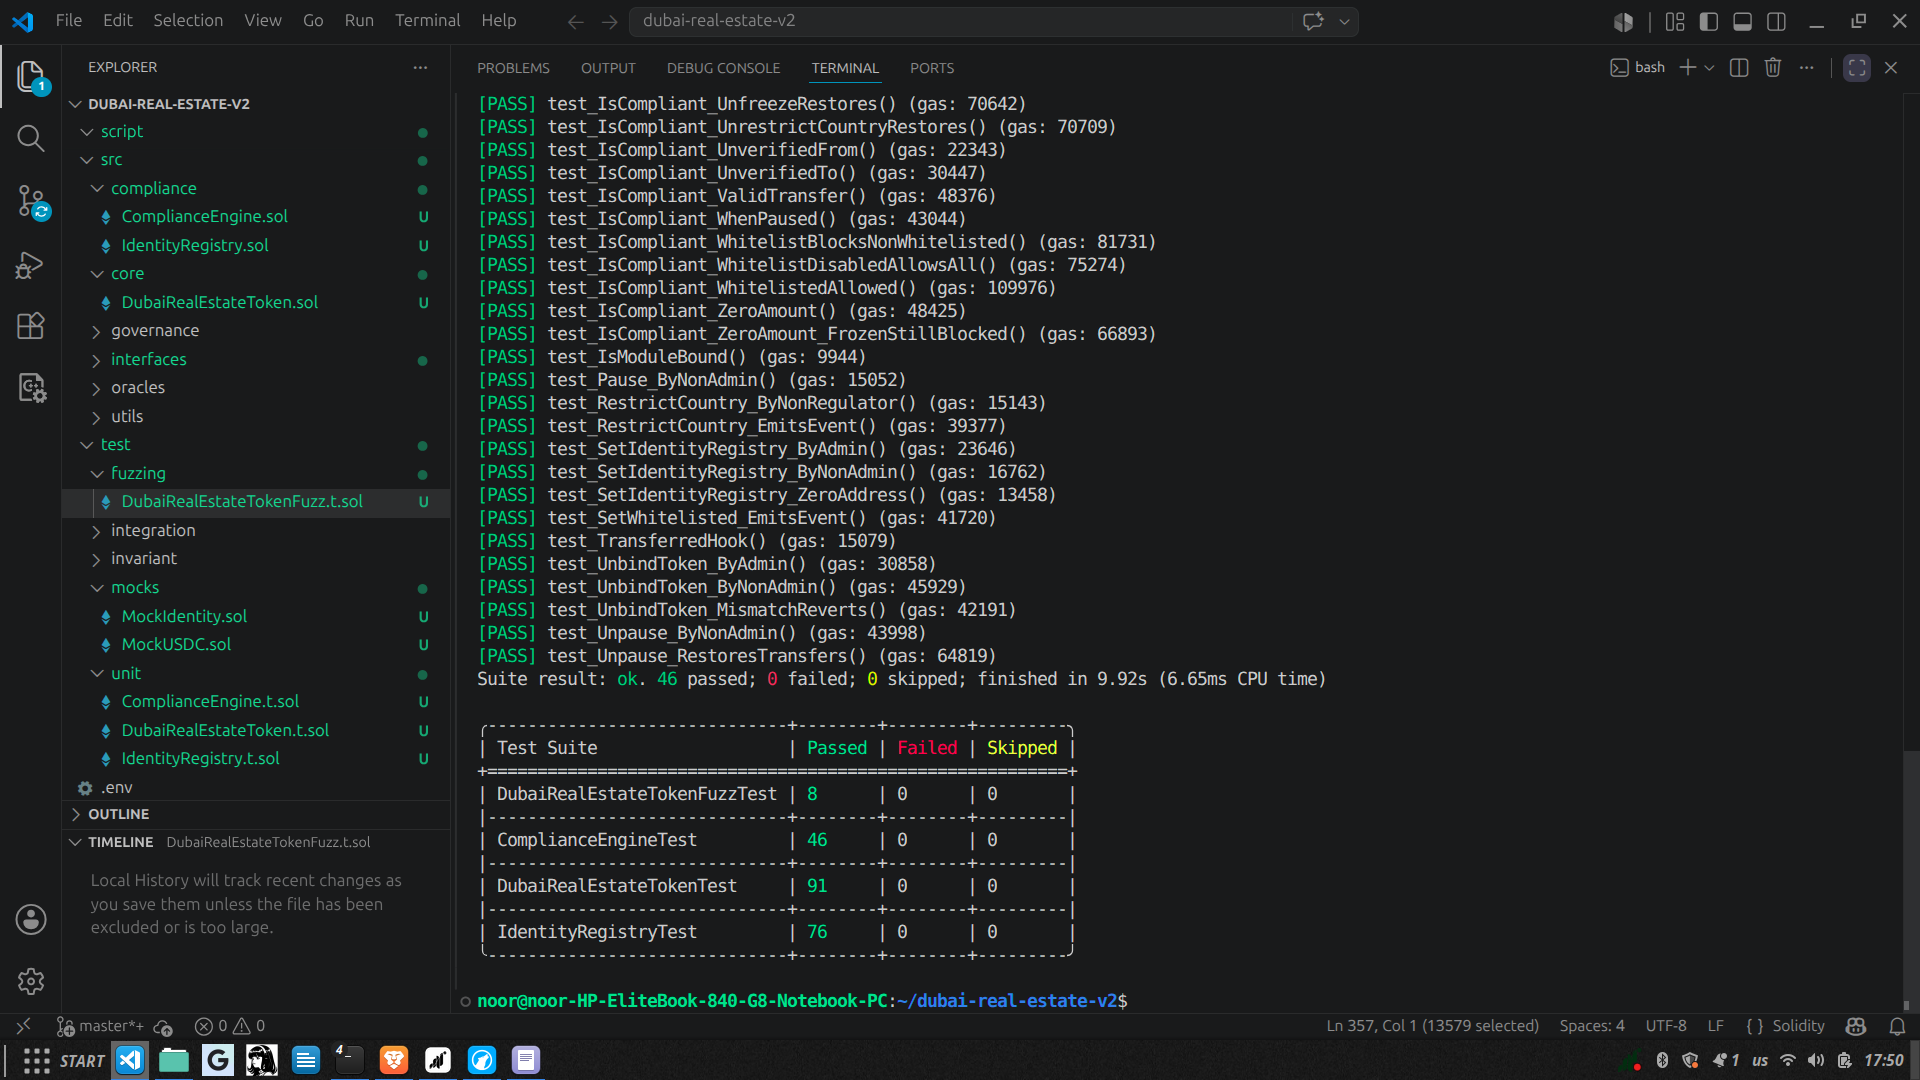
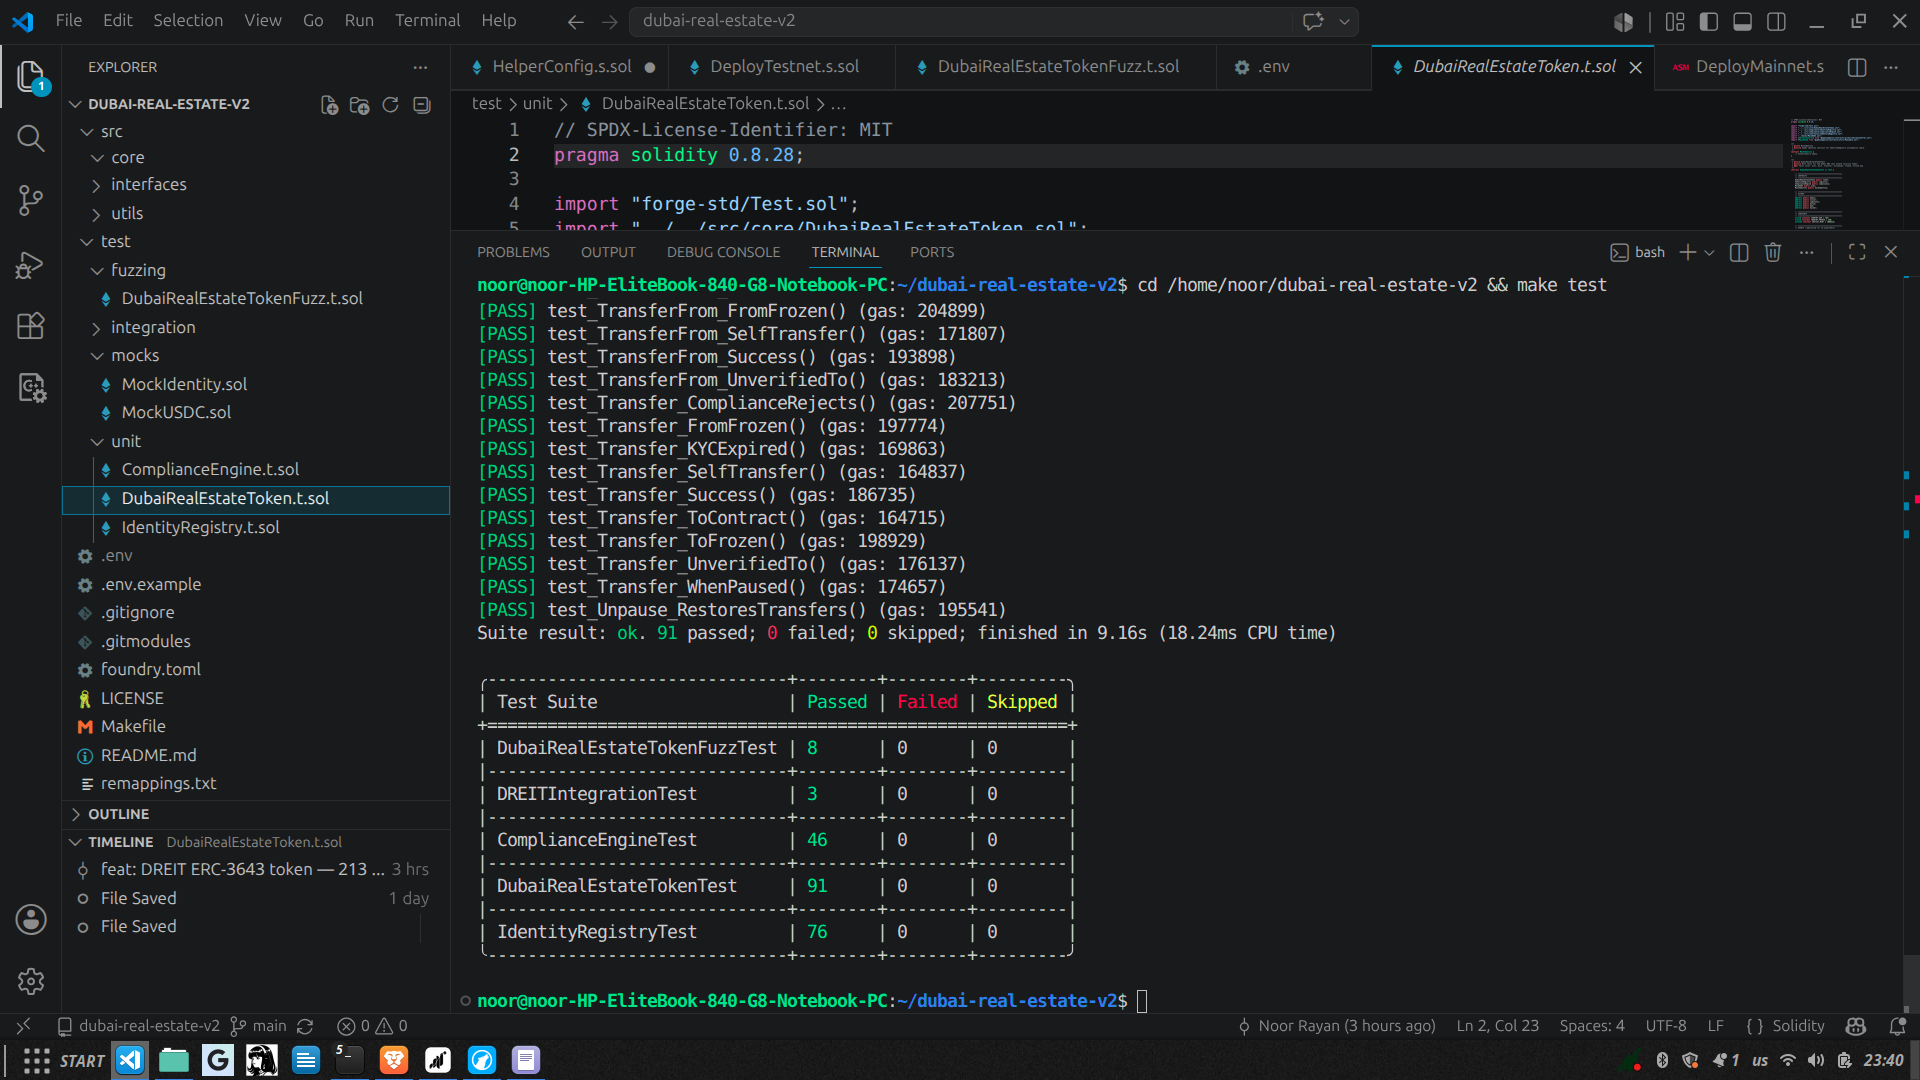
docs: update test results — 5 suites (216 unit + 3 integration + 8 fuzz)

diff --git a/README.md b/README.md
@@ -201,12 +201,13 @@ No files changed, compilation skipped
 | Test Suite                   | Passed | Failed | Skipped |
 +==========================================================+
 | DubaiRealEstateTokenFuzzTest | 8      | 0      | 0       |
+| DREITIntegrationTest         | 3      | 0      | 0       |
 | ComplianceEngineTest         | 46     | 0      | 0       |
 | DubaiRealEstateTokenTest     | 91     | 0      | 0       |
 | IdentityRegistryTest         | 76     | 0      | 0       |
 ╰------------------------------+--------+--------+---------╯
 
-Ran 4 test suites: 213 unit tests + 8 fuzzing tests passed, 0 failed, 0 skipped
+Ran 5 test suites: 213 unit tests + 3 integration tests + 8 fuzzing tests passed, 0 failed, 0 skipped
 ```
 
 ### Fuzzing Campaign